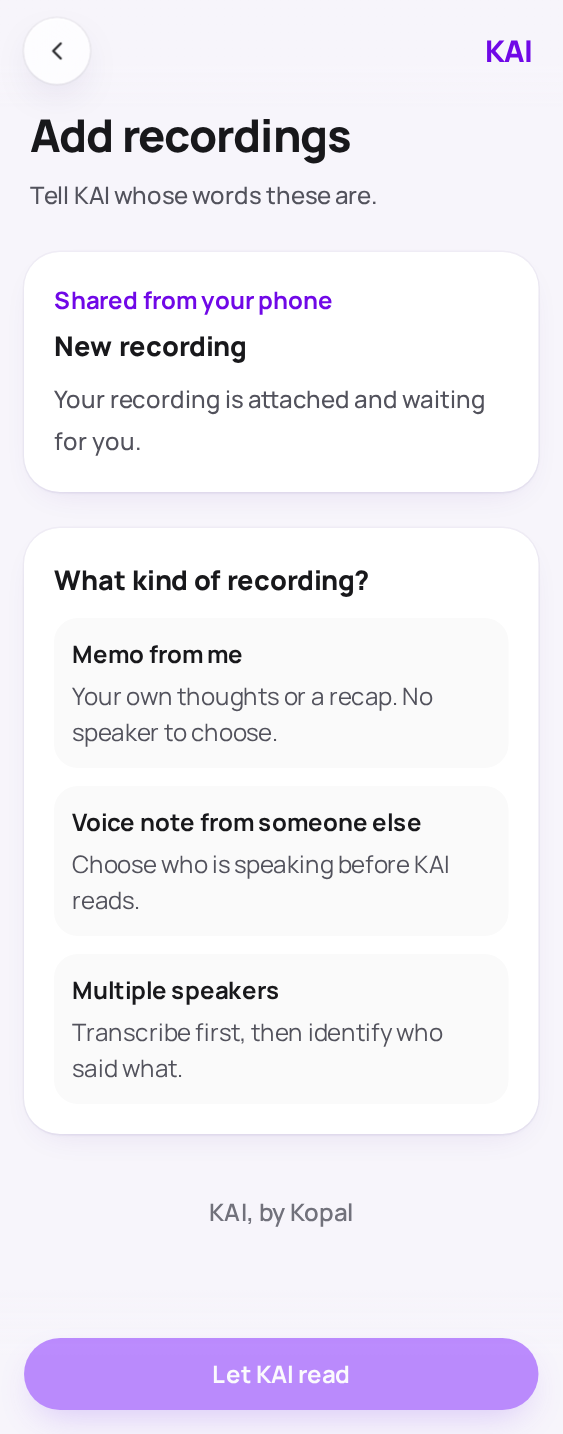
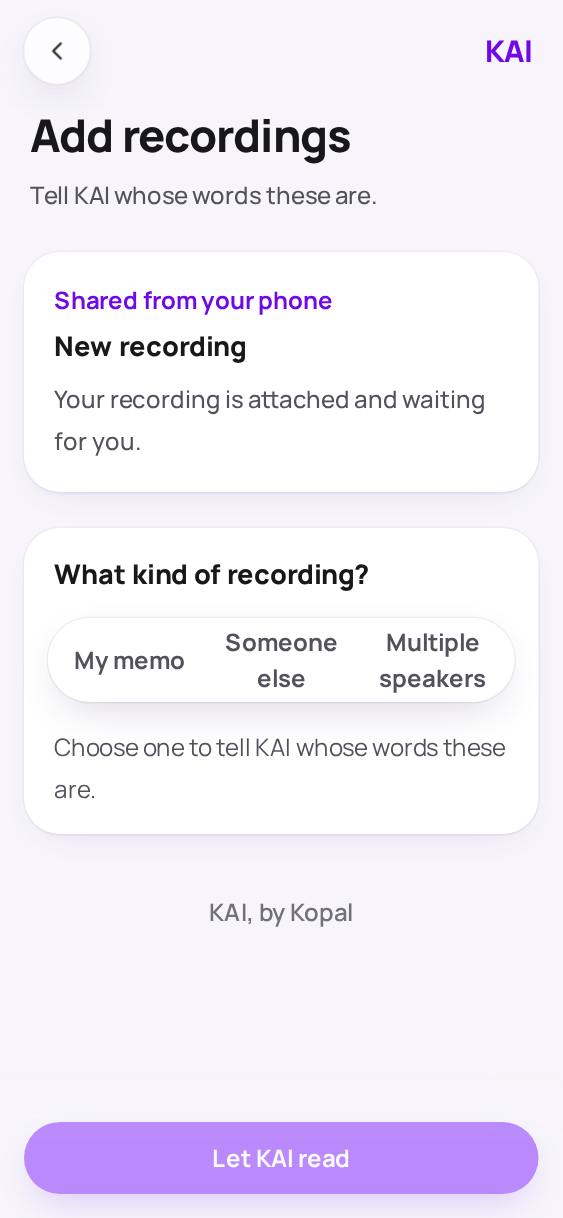
Use a compact selector for the three recording types

diff --git a/src/look/screens/Upload.tsx b/src/look/screens/Upload.tsx
@@ -1,6 +1,6 @@
 import { useState } from 'react'
 import type { LinkedPerson, PersonChoice,RecordingType } from '../types'
-import { Button, Card, Field, FOCUS, Notice, PushedPage, RecordingPicker, WhatIsKai } from '../ui'
+import { Button, Card, Field, FOCUS, Notice, PushedPage, RecordingPicker, Segmented, WhatIsKai } from '../ui'
 import {Icon,type IconName} from '../icons'
 export type UploadSource='voice-memos'|'whatsapp'|'files'
 const sources:{id:UploadSource;label:string;icon:IconName}[]=[{id:'voice-memos',label:'Voice Memos',icon:'mic'},{id:'whatsapp',label:'WhatsApp',icon:'chat'},{id:'files',label:'Files',icon:'folder'}]
@@ -47,13 +47,10 @@ export function Upload({ people, incoming, readOnly, presetPerson, busy, error, 
       {!incoming && source==='voice-memos' && shortcutReady && <Notice>Prefer Files? In Voice Memos, tap Share, then Save to Files. Come back here and choose your saved audio.</Notice>}
       {!incoming && source!=='files' && !(source==='voice-memos' && shortcutReady) && <Notice>{shortcutReady ? 'Open the app, share your recording to Send to KAI, then choose the recording type here. If the app does not open, open it from your Home Screen.' : 'First, add Send to KAI to your iPhone’s shortcuts. Then share a recording from the app.'}</Notice>}
       {incoming && <Card className="p-5"><p className="text-base font-bold text-violet-700">Shared from your phone</p><h2 className="mt-1 text-lg font-extrabold">{incoming.title}</h2><p className="mt-2 text-base/7 font-medium text-zinc-600">Your recording is attached and waiting for you.</p></Card>}
-      {(incoming || source==='files') && <Card className="space-y-3 p-5"><h2 className="text-lg font-extrabold">What kind of recording?</h2>{([
-        ['memo','Memo from me','Your own thoughts or a recap. No speaker to choose.'],
-        ['voice','Voice note from someone else','Choose who is speaking before KAI reads.'],
-        ['multiple','Multiple speakers','Transcribe first, then identify who said what.']
-      ] as const).map(([value,title,detail])=><button key={value} type="button" disabled={busy} aria-pressed={recordingType===value} onClick={()=>setRecordingType(value)} className={`${FOCUS} block min-h-14 w-full rounded-2xl p-3 text-left text-base ${recordingType===value ? 'bg-violet-50 ring-1 ring-violet-200':'bg-zinc-50'}`}><span className="block font-bold">{title}</span><span className="mt-1 block leading-6 text-zinc-600">{detail}</span></button>)}</Card>}
-      {(incoming || source==='files') && recordingType==='memo' && <Notice>This is your memo. It stays in your library; KAI can suggest people and tasks mentioned in it.</Notice>}
-      {(incoming || source==='files') && recordingType==='multiple' && <Notice>KAI will separate the speakers’ words. You’ll identify each speaker before it suggests people updates and tasks.</Notice>}
+      {(incoming || source==='files') && <Card className="space-y-4 p-4"><h2 className="px-1 text-lg font-extrabold">What kind of recording?</h2>
+        <fieldset disabled={busy}><Segmented<RecordingType|''> label="Recording type" value={recordingType ?? ''} onChange={value=>setRecordingType(value || undefined)} items={[{key:'memo',label:'My memo'},{key:'voice',label:'Someone else'},{key:'multiple',label:'Multiple speakers'}]}/></fieldset>
+        <p className="px-1 text-base/7 text-zinc-600">{recordingType==='memo' ? 'Your own thoughts or a recap. No speaker to choose; it stays in your library.' : recordingType==='voice' ? 'A voice note from one person. Choose who sent it before KAI reads.' : recordingType==='multiple' ? 'Transcribe first, then identify who said what before KAI creates suggestions.' : 'Choose one to tell KAI whose words these are.'}</p>
+      </Card>}
       {(incoming || source==='files') && recordingType==='voice' && <Card className="space-y-4 p-5">
         <label htmlFor="upload-person" className="block text-base font-bold text-zinc-700">Who is speaking?</label>
         <select id="upload-person" disabled={busy} value={selected} onChange={e=>setSelected(e.target.value)} className="min-h-14 w-full rounded-2xl bg-zinc-50 px-4 py-3 text-base text-zinc-900 ring-1 ring-zinc-300 focus:ring-2 focus:ring-violet-500">

diff --git a/tests/phone/upload-sources.spec.ts b/tests/phone/upload-sources.spec.ts
@@ -20,7 +20,7 @@ test('three audio sources show guidance and return from shortcut setup to the ch
  await expect(page.getByText('Open Voice Memos from your Home Screen and choose a recording.',{exact:true})).toBeVisible();
  await expect(page.locator('a[href^="voicememos:"]')).toHaveCount(0);await assertPhone(page);
  await page.getByRole('button',{name:'Choose saved audio',exact:true}).click();
- await expect(page.getByRole('heading',{name:'What kind of recording?'})).toBeVisible();await page.getByRole('button',{name:/^Memo from me/}).click();
+ await expect(page.getByRole('heading',{name:'What kind of recording?'})).toBeVisible();await page.getByRole('button',{name:/^My memo/}).click();
  await page.getByRole('button',{name:'Files',exact:true}).click();
  const picker=page.getByLabel('Add recordings: choose up to five audio files');await expect(picker).toHaveAttribute('accept','.m4a,.opus,.ogg,.mp3,.wav');
  await picker.setInputFiles({name:'invented.txt',mimeType:'text/plain',buffer:Buffer.from('Invented words.')});
@@ -34,7 +34,7 @@ test('remaining time refuses an oversized duration, hides a missing post, and le
  const cookie=(await page.context().cookies()).find(c=>c.name==='kai_session')!;const id=cookie.value.split('.')[0];
  kai.db.prepare('UPDATE workspaces SET trial_verified=1,trial_seconds=1 WHERE id=?').run(id);
  await page.goto('/upload/new');await expect(page.getByText('0 min 1 sec of recording time left',{exact:true})).toBeVisible();
- await page.getByRole('button',{name:/^Memo from me/}).click();
+ await page.getByRole('button',{name:/^My memo/}).click();
  await page.getByLabel('Add recordings: choose up to five audio files').setInputFiles({name:'invented.wav',mimeType:'audio/wav',buffer:testTone()});
  await expect(page.getByText(/remaining recording time/)).toBeVisible();
  expect((kai.db.prepare('SELECT trial_seconds FROM workspaces WHERE id=?').get(id) as {trial_seconds:number}).trial_seconds).toBe(1);
@@ -42,7 +42,7 @@ test('remaining time refuses an oversized duration, hides a missing post, and le
  const connection=await (await page.request.get('/api/connect')).json();
  const r=await page.request.post(connection.uploadPath,{multipart:{recordings:{name:'invented.wav',mimeType:'audio/wav',buffer:testTone()},date:new Date().toISOString()}});expect(r.status()).toBe(202);const {ids}=await r.json();
  // The last two seconds are already reserved. The attached recording must still be startable.
- await page.goto('/upload/'+ids[0]);await page.getByRole('button',{name:/^Memo from me/}).click();await expect(page.getByRole('button',{name:'Let KAI read',exact:true})).toBeEnabled();await assertPhone(page);
+ await page.goto('/upload/'+ids[0]);await page.getByRole('button',{name:/^My memo/}).click();await expect(page.getByRole('button',{name:'Let KAI read',exact:true})).toBeEnabled();await assertPhone(page);
  await page.getByRole('button',{name:'Let KAI read',exact:true}).click();await expect(page.getByRole('button',{name:/^Accept all/})).toBeEnabled();
  await page.goto('/upload/new');await expect(page.getByRole('heading',{name:'Your hour is complete'})).toBeVisible();await expect(page.getByRole('link',{name:'Show KAI some love'})).toHaveCount(0);await assertPhone(page);
  await page.goto('/home');await expect(page.getByRole('link',{name:'Show KAI some love'})).toHaveCount(0);

diff --git a/tests/phone/upload-person.spec.ts b/tests/phone/upload-person.spec.ts
@@ -10,7 +10,7 @@ async function login(page:any,secret:string) {
 
 test('choose a new person before upload; their page keeps the recording after reload',async({page,kai})=> {
   await login(page,kai.secret);await page.getByRole('link',{name:'Add recordings',exact:true}).click();
-  await page.getByRole('button',{name:/^Voice note from someone else/}).click();await page.getByLabel('Who is speaking?').selectOption('new');await assertPhone(page);
+  await page.getByRole('button',{name:/^Someone else/}).click();await page.getByLabel('Who is speaking?').selectOption('new');await assertPhone(page);
   await page.getByLabel('Name',{exact:true}).fill('Avery Fern');await page.getByLabel('Company (optional)').fill('Juniper Dental');await photograph(page,'upload-new-person');
   await page.getByLabel('Add recordings: choose up to five audio files').setInputFiles({name:'invented.wav',mimeType:'audio/wav',buffer:testTone()});
   await expect(page.getByRole('button',{name:/^Accept all/})).toBeEnabled();await page.getByRole('link',{name:'Avery Fern',exact:true}).click();
@@ -29,7 +29,7 @@ test('WhatsApp handoff waits for person choice and resumes the attached recordin
   await interruptedNavigation;await expect(page.getByText('Upload temporarily unavailable',{exact:true})).toBeVisible();await page.goto('/home');await expect(page).toHaveURL(new RegExp('/upload/'+ids[0]),{timeout:10000});expect(interrupted).toBe(true);
   await expect(page.getByText('Your recording is attached and waiting for you.')).toBeVisible();await assertPhone(page);await photograph(page,'upload-shared');
   const people=await (await page.request.get('/api/people')).json();
-  await page.getByRole('button',{name:/^Voice note from someone else/}).click();await page.getByLabel('Who is speaking?').selectOption(people.find((p:any)=>p.name==='Dana Whitfield').id);
+  await page.getByRole('button',{name:/^Someone else/}).click();await page.getByLabel('Who is speaking?').selectOption(people.find((p:any)=>p.name==='Dana Whitfield').id);
   await page.getByRole('button',{name:'Let KAI read',exact:true}).click();
   await expect(page).toHaveURL(new RegExp('/recordings/'+ids[0]));await expect(page.getByRole('button',{name:/^Accept all/})).toBeEnabled();
   await expect(page.getByRole('link',{name:'Dana Whitfield',exact:true})).toBeVisible();await assertPhone(page);

diff --git a/tests/phone/recording-types.spec.ts b/tests/phone/recording-types.spec.ts
@@ -5,8 +5,8 @@ test('recording type makes speaker timing explicit; meetings wait for speaker na
  await page.goto('/');await page.evaluate(s=>{history.replaceState(null,'','/#judge='+s);location.reload()},kai.secret);
  await page.getByRole('link',{name:'Try it yourself',exact:true}).click();await page.goto('/upload/new');
  const picker=page.getByLabel('Add recordings: choose up to five audio files');await expect(picker).toBeDisabled();
- await page.getByRole('button',{name:/^Memo from me/}).click();await expect(picker).toBeEnabled();await expect(page.getByLabel('Who is speaking?',{exact:true})).toHaveCount(0);await assertPhone(page);
- await page.getByRole('button',{name:/^Voice note from someone else/}).click();await expect(picker).toBeDisabled();await expect(page.getByLabel('Who is speaking?',{exact:true})).toBeVisible();
+ await page.getByRole('button',{name:/^My memo/}).click();await expect(picker).toBeEnabled();await expect(page.getByLabel('Who is speaking?',{exact:true})).toHaveCount(0);await assertPhone(page);
+ await page.getByRole('button',{name:/^Someone else/}).click();await expect(picker).toBeDisabled();await expect(page.getByLabel('Who is speaking?',{exact:true})).toBeVisible();
  await page.getByLabel('Who is speaking?',{exact:true}).selectOption('new');await page.getByLabel('Name',{exact:true}).fill('Avery Fern');await expect(picker).toBeEnabled();await assertPhone(page);
  await page.getByRole('button',{name:/^Multiple speakers/}).click();await expect(page.getByLabel('Who is speaking?',{exact:true})).toHaveCount(0);await expect(picker).toBeEnabled();await assertPhone(page);
  await picker.setInputFiles({name:'invented-meeting.wav',mimeType:'audio/wav',buffer:testTone()});

diff --git a/tests/phone/look.spec.ts b/tests/phone/look.spec.ts
@@ -8,8 +8,8 @@ for(const route of ['/people','/todos','/people/dana']) {
     const workspace=(await page.context().cookies()).find(c=>c.name==='kai_session')!.value.split('.')[0];
     await page.goto(route==='/people/dana' ? '/people/'+workspace+':dana':route);
     await page.getByRole('link',{name:'Add recordings',exact:true}).click();
-    await page.getByRole('button',{name:/^Voice note from someone else/}).click();await expect(page.getByLabel('Who is speaking?')).toBeVisible();
-    await page.getByRole('button',{name:/^Voice note from someone else/}).click();await page.getByLabel('Who is speaking?').selectOption(workspace+':dana');
+    await page.getByRole('button',{name:/^Someone else/}).click();await expect(page.getByLabel('Who is speaking?')).toBeVisible();
+    await page.getByRole('button',{name:/^Someone else/}).click();await page.getByLabel('Who is speaking?').selectOption(workspace+':dana');
     const chooser=page.waitForEvent('filechooser');
     await page.getByLabel('Add recordings: choose up to five audio files').click();
     await (await chooser).setFiles({name:'invented.wav',mimeType:'audio/wav',buffer:testTone()});

diff --git a/tests/phone/upload.spec.ts b/tests/phone/upload.spec.ts
@@ -5,7 +5,7 @@ test('phone adds a generated recording and reads its words',async({page,kai})=> 
   await page.goto('/');await page.evaluate(value=>{history.replaceState(null,'',`/#judge=${value}`);location.reload();},kai.secret);
   await page.getByRole('link',{name:'Try it yourself'}).click();
   await page.getByRole('link',{name:'Add recordings',exact:true}).click();
-  await page.getByRole('button',{name:/^Memo from me/}).click();
+  await page.getByRole('button',{name:/^My memo/}).click();
   await page.getByLabel('Add recordings: choose up to five audio files').setInputFiles({name:'invented.wav',mimeType:'audio/wav',buffer:testTone()});
   await expect(page.getByRole('button',{name:/^Accept all/})).toBeEnabled();
   await expect(page.getByRole('region',{name:'The words',exact:true})).toContainText('Dana Whitfield');await assertPhone(page);

diff --git a/design/README.md b/design/README.md
@@ -144,3 +144,6 @@ before transcription. Multiple speakers pauses at “Who said what?” with
 labelled passages and Me/existing/new-person choices before suggestions.
 Memo recordings stay in the library without a speaker picker, and personal
 tasks can be accepted without creating a contact.
+
+The three recording types use one compact segmented selector, with a short
+explanation beneath the selected choice, as Copal requested.
